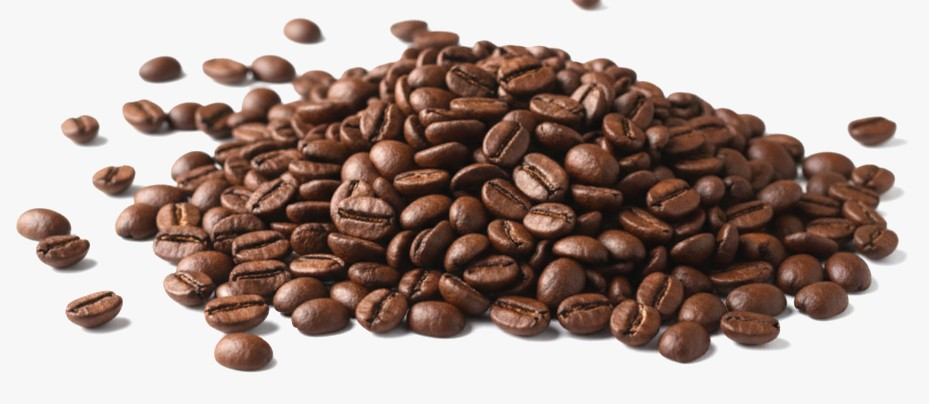
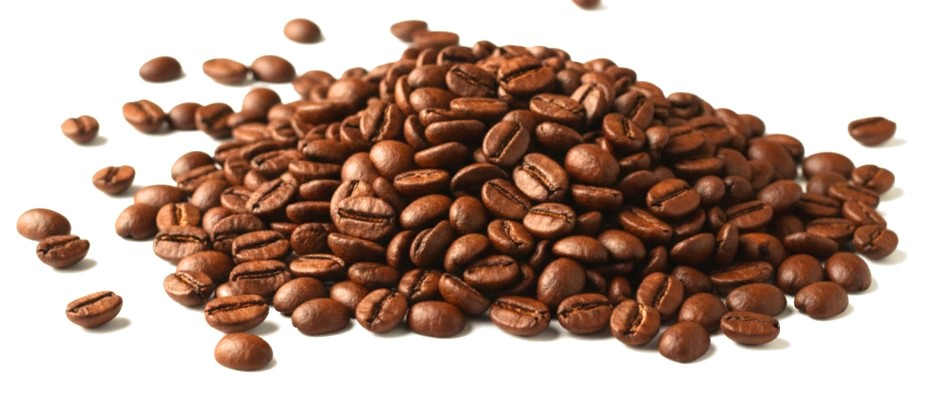
원두 사진만 황금빛 컬러로 - 흑백 규칙의 유일한 예외
- beans.jpg를 황금빛 보정본으로 교체. 채도 1.28에 R을 조금 올리고 B를 내려
  따뜻한 금빛이 돌게 했다. 보정은 원두에만 걸리도록 밝기 기준 마스크
  (238 이상은 배경으로 보고 제외)를 씌워 흰 배경이 크림색으로 물드는 것을 막았다.
- .shot.color 클래스를 신설해 그 사진만 grayscale 필터를 벗긴다.
  다른 사진(제어화면·특허증·파우치·로스팅기)은 흑백 그대로.
- 황금빛은 이미지에 구워 넣었으므로 CSS는 filter:none 한 줄이면 된다.
  index.html의 og:image도 같은 파일이라 공유 미리보기가 함께 살아난다.
- 검토용 시안: ..\WELCO_원두색_시안_v1.2.png (흑백 / 원본컬러 / 황금빛)
  골드 듀오톤안은 원두가 카키색으로 빠져 폐기했다.

diff --git a/assets/spec.css b/assets/spec.css
@@ -216,6 +216,11 @@
   /* 사진 */
   figure{margin:0;}
   .shot img{filter:grayscale(1) contrast(1.1); width:100%;}
+  /* 디자인 규칙("사진은 전부 흑백")의 유일한 예외.
+     원두는 이 제품의 주인공이라 색을 살린다 — 흑백에 넣으면 짙은 갈색이
+     배경과 함께 검정으로 수렴해 형태까지 사라진다.
+     황금빛은 이미지 자체에 구워 두었으므로 여기서는 필터만 벗긴다. */
+  .shot.color img{filter:none;}
   .shot figcaption{font-size:13px; color:var(--ink3);
                    border-top:1px solid var(--rule); padding-top:10px; margin-top:12px; line-height:1.85;}
   .plate .shot figcaption{color:#a8a094; border-top-color:#3a352d;}

diff --git a/shop.html b/shop.html
@@ -134,7 +134,7 @@
         </p>
       </div>
 
-      <figure class="shot">
+      <figure class="shot color">
         <img src="assets/beans.jpg" alt="웰코 케냐 AA 로스팅 원두"
              width="929" height="404" loading="lazy" decoding="async">
         <figcaption>진공 질소 150℃로 볶은 케냐 AA 홀빈</figcaption>
